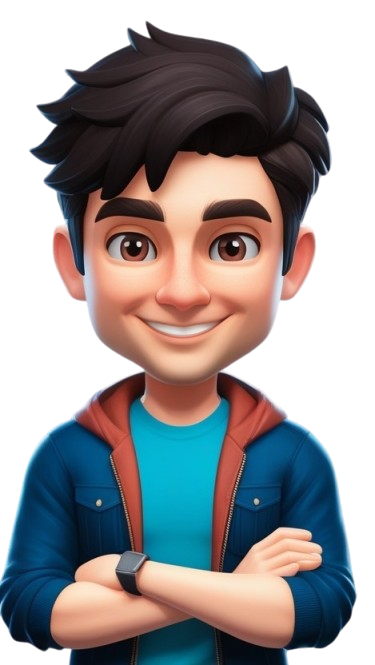
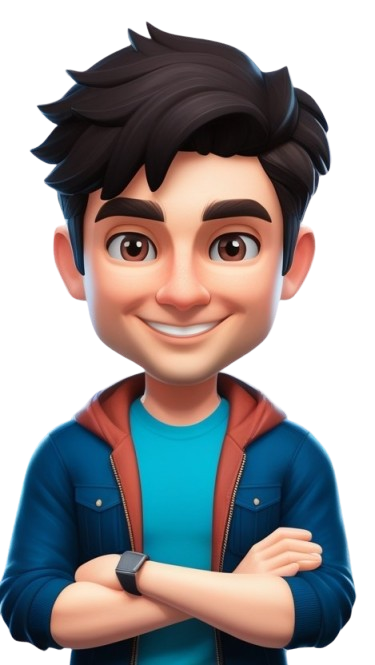
version 2.0

diff --git a/index.html b/index.html
@@ -63,7 +63,7 @@
          <!--==================== HOME ====================-->
          <section class="home section" id="home">
             <div class="home__container container grid">
-               <img src="assets/img/Avatar-2.png" alt="image" class="home__img">
+               <img src="assets/img/Avatar.png" alt="image" class="home__img">
 
                <div class="home__data">
                   <h1 class="home__name">Divyansh <br> Singh</h1>
